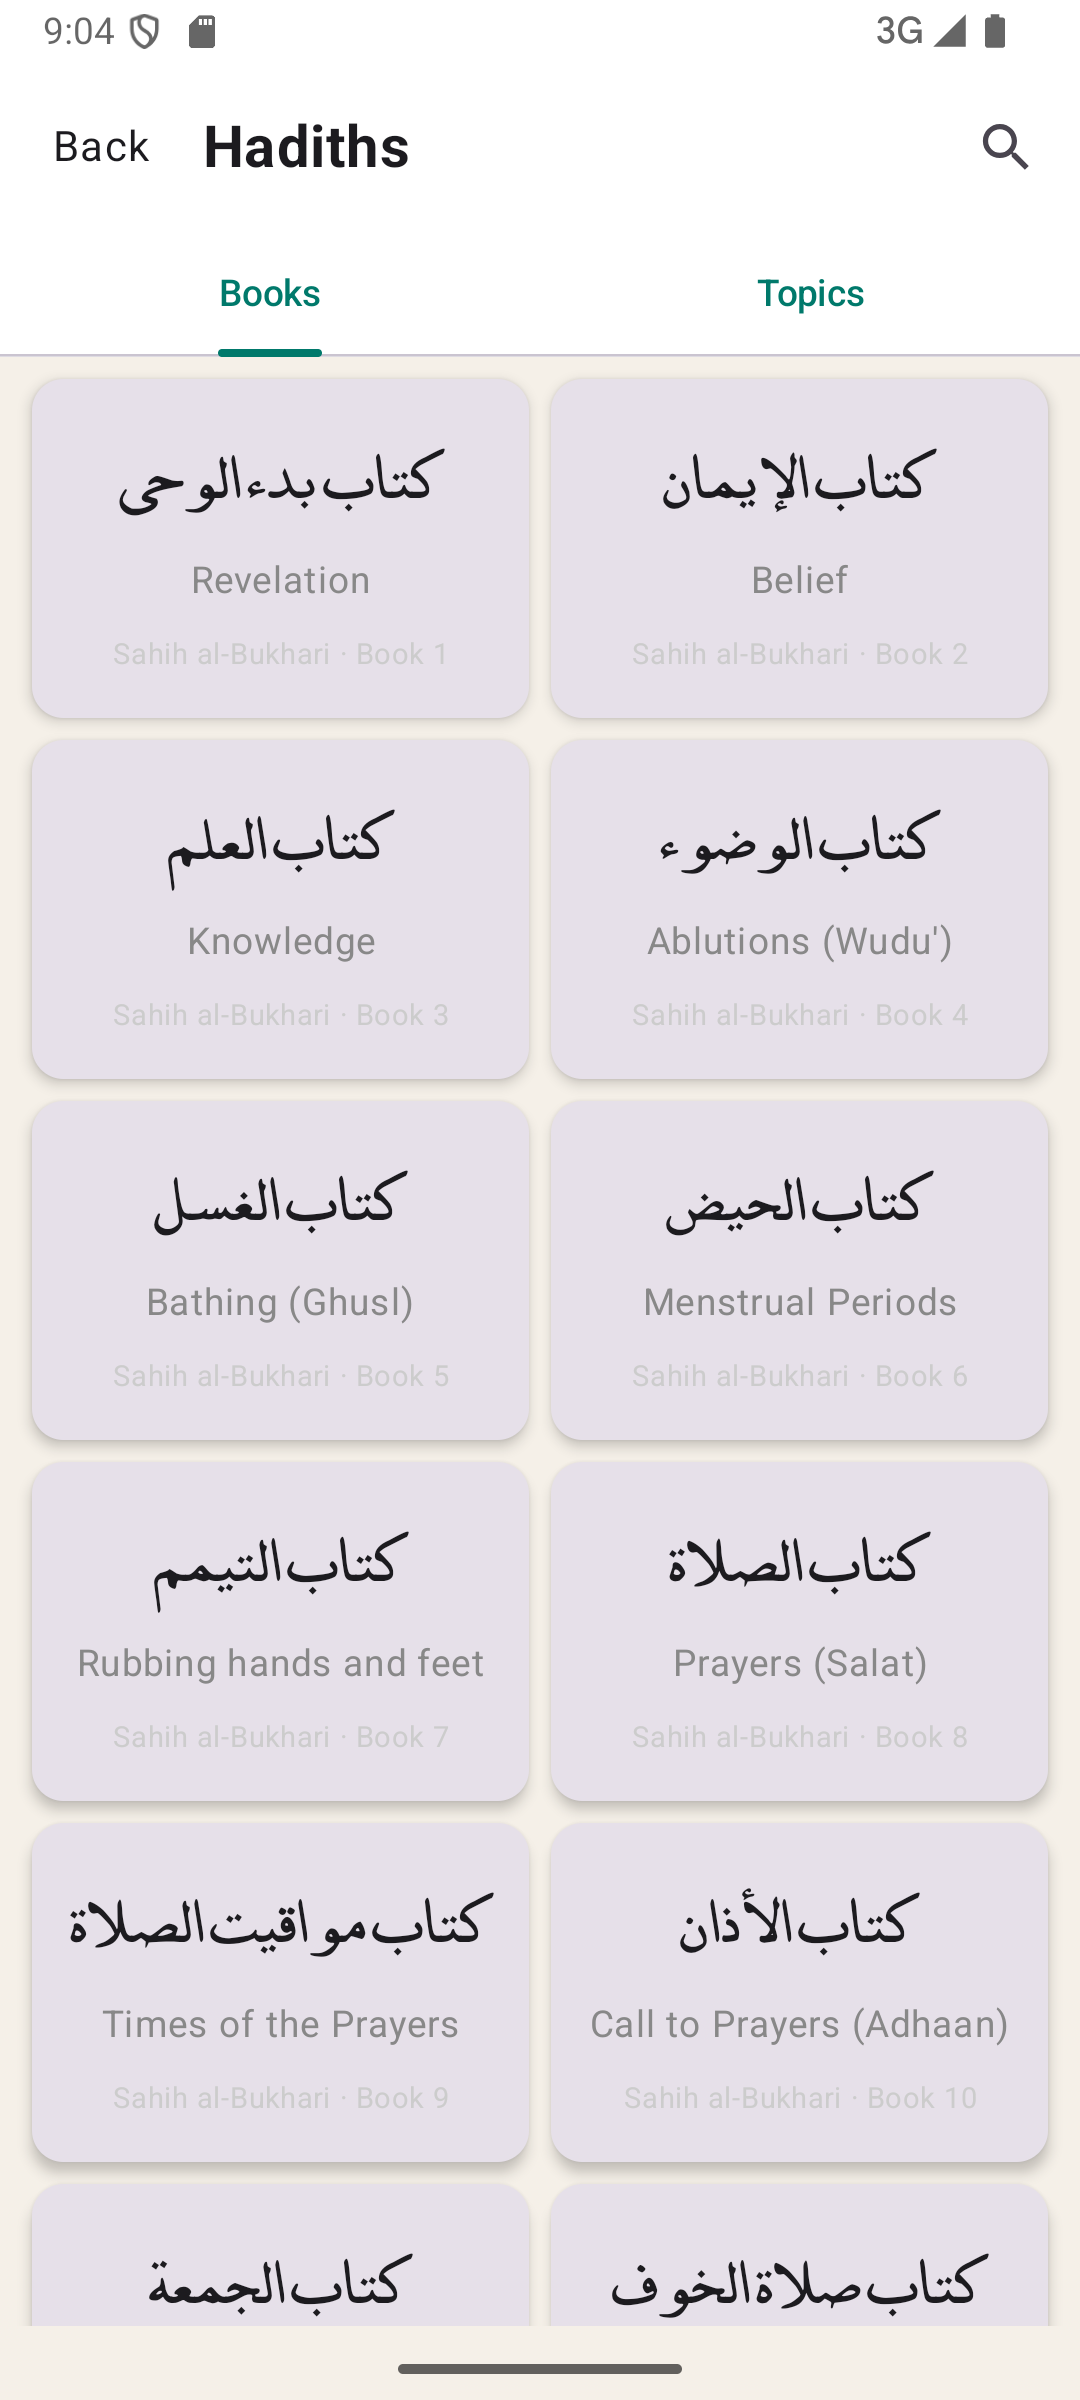
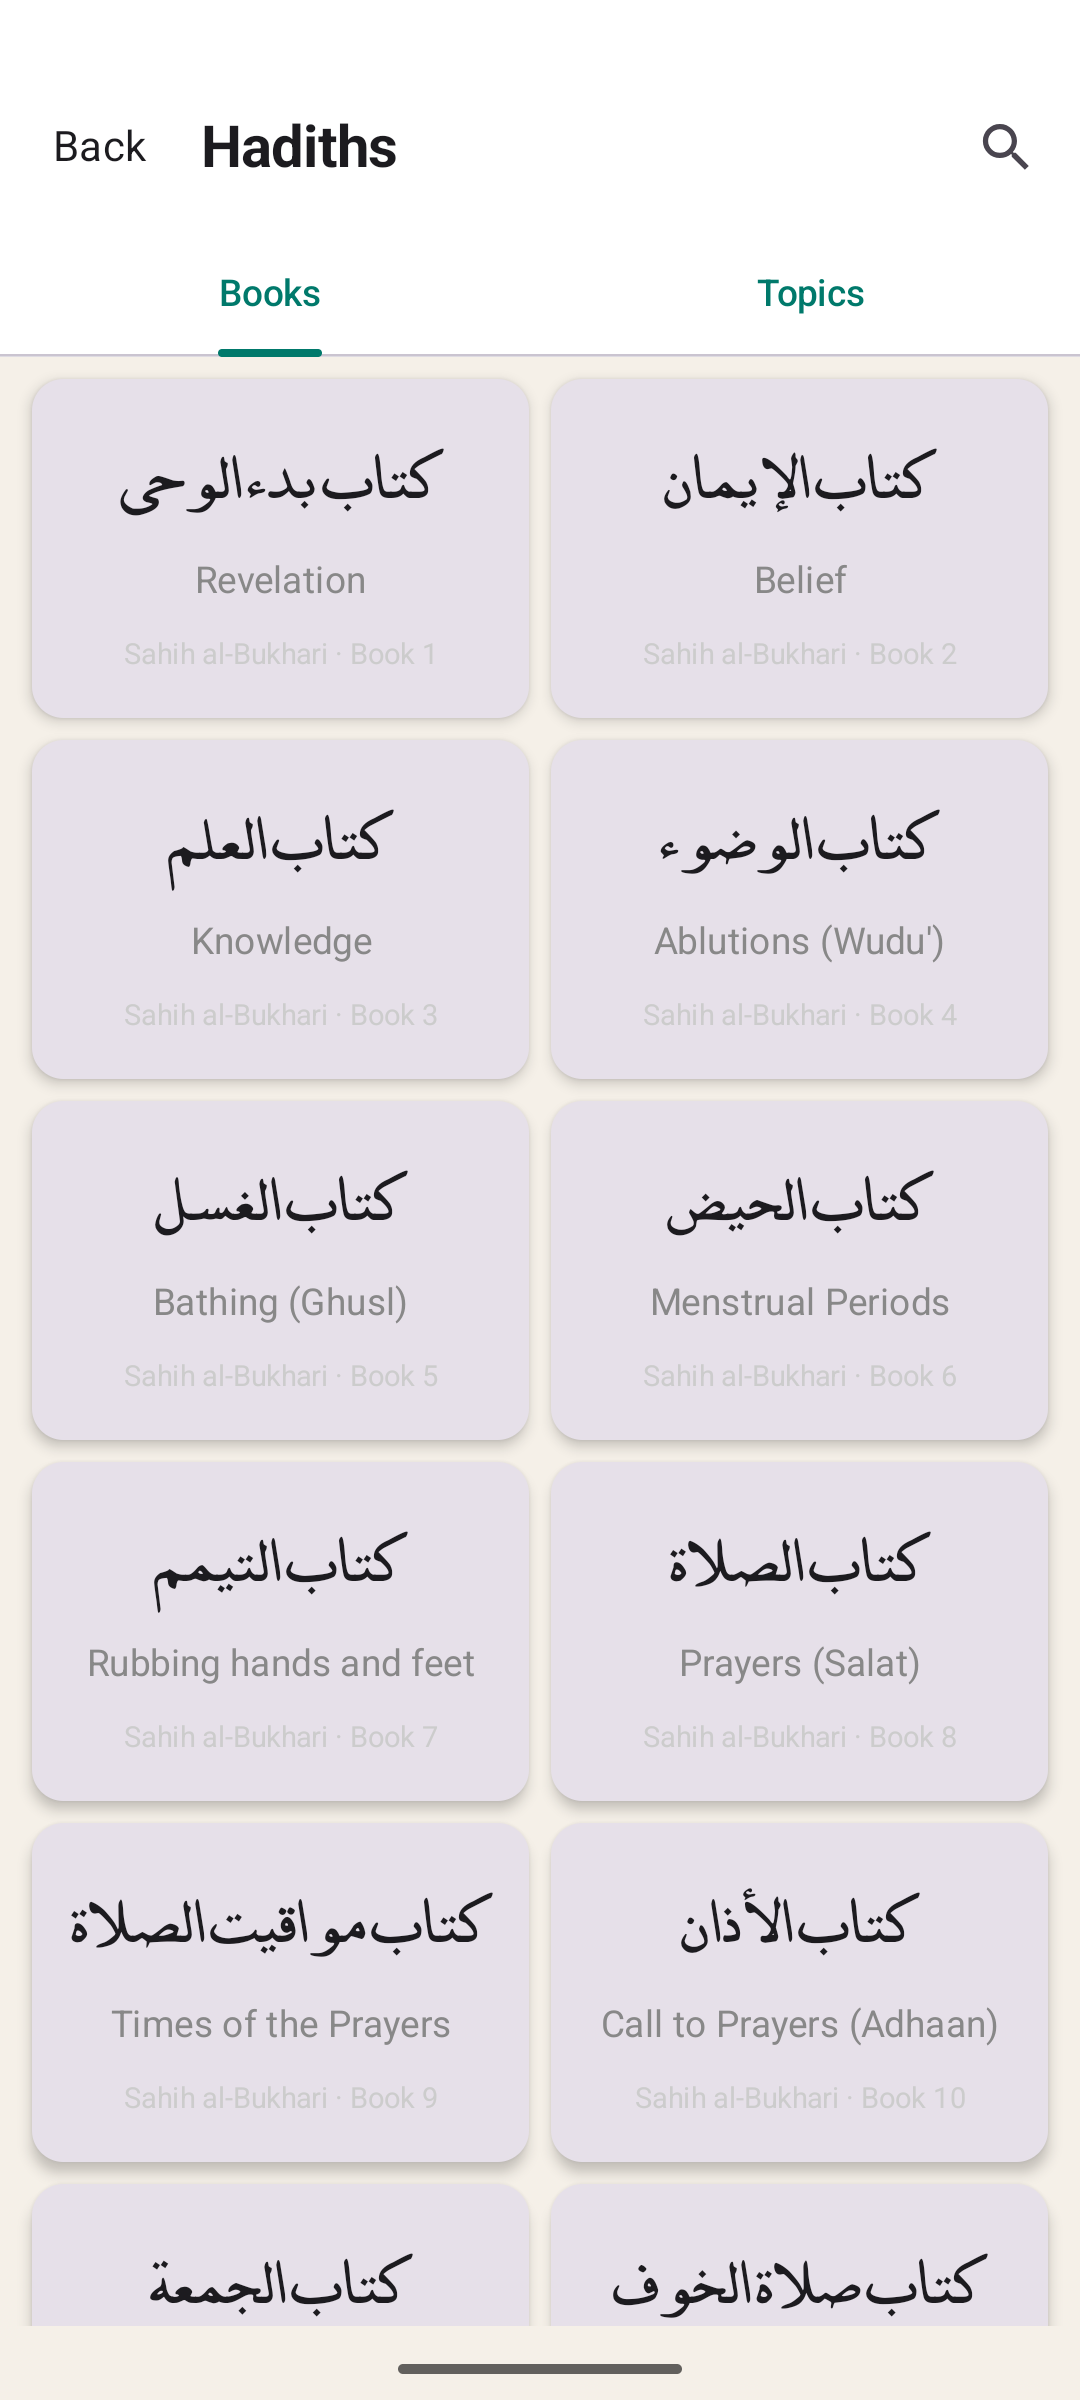
docs: update README with design engineering, sync high-res screenshots and complete route coverage (#106)

diff --git a/README.md b/README.md
@@ -1,4 +1,4 @@
-# 🕌 Rafiq - Islamic Lifestyle App for Android & iOS (Kotlin Multiplatform)
+# 🕋 Rafiq - Islamic Lifestyle App for Android & iOS (Kotlin Multiplatform)
 
 <p align="center">
   <a href="https://github.com/suryamudti/rafiq-android/actions/workflows/pr-check.yml"><img src="https://github.com/suryamudti/rafiq-android/actions/workflows/pr-check.yml/badge.svg" alt="PR Check"/></a>
@@ -12,7 +12,7 @@
 </p>
 
 <p align="center">
-<b>Rafiq</b> demonstrates modern cross-platform mobile development with <b>Kotlin Multiplatform (KMP)</b>, Compose Multiplatform, Jetpack Compose (Material3), Koin, Coroutines, Flow, Room KMP, and Ktor based on <b>Clean Architecture</b> and <b>MVVM</b> multi-module guidelines.
+<b>Rafiq</b> demonstrates modern cross-platform mobile development with <b>Kotlin Multiplatform (KMP)</b>, Compose Multiplatform, Jetpack Compose (Material3), Koin, Coroutines, Flow, Room KMP, and Ktor based on <b>Clean Architecture</b> and <b>MVVM</b> multi-module guidelines, elevated by <b>Emil Kowalski's Design Engineering philosophy</b> and responsive spring micro-interactions.
 </p>
 
 ---
@@ -37,9 +37,9 @@ Go to the [Releases](https://github.com/suryamudti/rafiq-android/releases) secti
 | :---: | :---: | :---: | :---: |
 | <img src="figure/mosques.png" width="220"/> | <img src="figure/hadith.png" width="220"/> | <img src="figure/prophets.png" width="220"/> | <img src="figure/calendar.png" width="220"/> |
 
-| Prayer Guidance | Sunnah Guidance | Architecture & Info |
-| :---: | :---: | :---: |
-| <img src="figure/prayerguidance.png" width="220"/> | <img src="figure/sunnahguidance.png" width="220"/> | <img src="figure/appinfo.png" width="220"/> |
+| Prayer Log & Tracker | Prayer Guidance | Sunnah Guidance | Architecture & Info |
+| :---: | :---: | :---: | :---: |
+| <img src="figure/prayerlog.png" width="220"/> | <img src="figure/prayerguidance.png" width="220"/> | <img src="figure/sunnahguidance.png" width="220"/> | <img src="figure/appinfo.png" width="220"/> |
 
 ---
 
@@ -47,22 +47,22 @@ Go to the [Releases](https://github.com/suryamudti/rafiq-android/releases) secti
 
 | Feature | Description |
 |---|---|
-| **🕌 Prayer Times** | Real-time prayer calculation via Aladhan API with date navigation and countdown timer. |
+| **🕌 Prayer Times** | Real-time prayer calculation via Aladhan API with date navigation, countdown timer, and interactive prayer status cards. |
 | **📖 Quran & Tafsir** | 114 Surahs with Uthmani Arabic text, Indonesian/English translations, per-ayah tafsir, sajdah markers, memorization mode, and global ayah search across the full corpus. |
 | **🔊 Recitations** | Audio streaming of 15 reciters via Media3 ExoPlayer with background playback. |
 | **🧭 Qibla Compass** | 16-point direction name, live heading/bearing readout, turn left/right offset indicator (proximity within 5°), Kaaba info card, and a Google Maps button. |
-| **✨ 99 Names of Allah** | Complete list with Arabic typography, transliterations, meanings, and search functionality. |
-| **📅 Islamic Calendar** | Tabular Hijri dates, monthly grid with event/fasting dots, day sheet, upcoming observances (57 events), and sunnah fasting recommendations. |
+| **✨ Asmaul Husna (99 Names of Allah)** | Complete list with Arabic typography, transliterations, meanings, audio, search functionality, and grid/list view toggle. |
+| **📅 Islamic Calendar (`IslamicCalendar`)** | Tabular Hijri dates, monthly grid with event/fasting dots, day sheet, upcoming observances (57 events), and sunnah fasting recommendations. Available in native Android and Compose Multiplatform. |
 | **📜 Prophet Stories** | Biographies of 25 Prophets with facts, key events, lessons, and verse references; Arabic/Latin search, favorites filter, share, adjustable story font size, and prev/next navigation. |
-| **📚 Hadith Library** | Full Sahih Bukhari and Sahih Muslim corpus (Arabic + Indonesian/English translations) with books, per-book hadith lists, detail view, and global hadith search with highlighted results. |
-| **💰 Zakat Calculator** | Nisab threshold logic with instant results computed locally while gold/silver prices refresh in the background from the Metals.live API (in-memory cache). |
-| **📿 Tasbih Counter & History** | Digital zikr counter with haptic feedback, customizable targets, and daily worship history log. |
+| **📚 Hadith Library** | Full canonical corpus (Sahih Bukhari, Sahih Muslim, 40 Hadith Nawawi, Sunan Abi Dawud, etc.) with book filtering, thematic topic explorer, Hadith of the Day, and reading modal with adjustable typography. |
+| **💰 Zakat Calculator (`ZakatCalculator`)** | Nisab threshold logic with instant results computed locally while gold/silver prices refresh in the background from the Metals.live API (in-memory cache). |
+| **📿 Tasbih Counter & History (`TasbihHistory`)** | Digital zikr counter with responsive spring haptics, tactile compression, customizable targets, preset zikr selections, and daily worship history log. |
 | **🗺 Nearby Mosques** | Location-aware MapLibre view (no Play Services) with nearby mosque discovery via a reliable Overpass POST API with mirror failover. |
 | **📖 Prayer Guidance** | Step-by-step guidance for obligatory prayers (Subuh, Dzuhur, Ashar, Maghrib, Isya) with authentic hadith/verse dalil, Arabic recitation, translation, and movement illustrations. |
 | **🤲 Sunnah Guidance** | Comprehensive guide for recommended prayers (Tahajjud, Dhuha, Rawatib, Witr, Eid, etc.) with procedures, intentions, and virtues. |
-| **🔖 Bookmarked Verses** | Bookmark favorite verses saved locally in Room database. |
-| **📊 Prayer Tracker & Log** | Daily prayer log screen with toggle switches to track daily worship. |
-| **🧠 Hifz Memorization** | Memorization tracking tools for memorizing verses and chapters. |
+| **📊 Prayer Tracker & Log (`PrayerLog`)** | Daily prayer tracker with intuitive completion toggles and statistics to build consistent daily worship habits. |
+| **🔖 Bookmarked Verses** | Bookmark favorite verses saved locally in Room database for quick offline access. |
+| **🧠 Hifz Memorization** | Memorization tracking tools for memorizing verses and chapters with hide/reveal assistance. |
 | **ℹ App & Architecture Info** | Shared multiplatform system overview, KMP layer information, and release details. |
 | **📚 Sources & Authenticity** | Full attribution and authenticity details for Quranic text, translations, hadith collections, and prayer time calculations. |
 | **🔔 Notifications** | Background prayer alarm notifications scheduled via WorkManager. |
@@ -81,11 +81,12 @@ Go to the [Releases](https://github.com/suryamudti/rafiq-android/releases) secti
 - **[Navigation3](https://developer.android.com/guide/navigation)**: Type-safe Compose navigation using Kotlin `@Serializable` data tokens.
 - **MVVM Architecture + Repository Pattern**: Separation of concerns between UI, Domain, and Data layers.
 
-### UI & Styling
-- **[Compose Multiplatform](https://www.jetbrains.com/lp/compose-multiplatform/)** (1.7.3): Declarative multiplatform UI framework for Android and iOS.
-- **[Jetpack Compose](https://developer.android.com/jetpack/compose)**: Modern declarative UI toolkit for Android.
-- **[Material Design 3](https://m3.material.io/)**: Modern design system, dynamic color schemes, and Islamic color palette.
-- **Custom Typography**: Arabic font support via `FontFamily(Font(R.font.me_quran))`.
+### UI & Styling (Design Engineering)
+- **[Compose Multiplatform](https://www.jetbrains.com/lp/compose-multiplatform/)** (1.7.3): Declarative multiplatform UI framework for Android and iOS (`:composeApp`).
+- **[Jetpack Compose](https://developer.android.com/jetpack/compose)**: Modern declarative UI toolkit for Android (`:app`).
+- **[Material Design 3](https://m3.material.io/)**: Modern design system, dynamic color schemes, and Islamic emerald & gold palette.
+- **Emil Kowalski Design Principles**: Tactile interaction physics via `Modifier.rafiqPressable()` with spring dynamics (`dampingRatio = 0.75f`, `stiffness = 400f`), Apple cubic bezier easing (`AppleEaseOut`), continuous curvature geometry (squircle pills & cards), and specular highlight borders (`RafiqSpecularHighlightBorder`).
+- **Custom Typography**: Arabic font support via `FontFamily(Font(R.font.me_quran))` and negative title letter tracking for refined optical balance.
 
 ### Data & Local Storage
 - **[Room Database KMP](https://developer.android.com/training/data-storage/room)** (2.8.4): SQLite object mapping library with Bundled SQLite Driver.
@@ -159,7 +160,7 @@ graph TD
     end
 
     subgraph Core ["Core Layer (:core - KMP)"]
-        Core_Utils["Result&lt;T&gt;, AppError, DispatcherProvider, DatabaseCopier"]
+        Core_Utils["Result pattern, AppError, DispatcherProvider, DatabaseCopier"]
     end
 
     UI --> Core
@@ -168,7 +169,7 @@ graph TD
 ```
 
 ### Architecture Highlights
-- **Kotlin Multiplatform Ready**: Pure KMP in `:core`, `:domain`, and `:composeApp`, supporting Android and iOS targets (`iosArm64`, `iosSimulatorArm64`).
+- **Kotlin Multiplatform Ready**: Pure KMP in `:core`, `:domain`, and `:composeApp`, supporting Android and iOS targets (`iosArm64`, `iosSimulatorArm64`). Shared multiplatform UI covers Quran, Hadith, Calendar, Tasbih, Asmaul Husna, Prophets, Zakat, and Guidance.
 - **Offline-First**: Bundled SQLite database assets (`quran-uthmani.db`, translation databases, and `hadith.db`) ensure complete offline Quran and Hadith reading without requiring an initial network load.
 - **Single Source of Truth**: Repositories manage caching between remote APIs and local databases.
 - **Unidirectional Data Flow (UDF)**: ViewModels expose immutable `StateFlow<UiState>` to Compose UI elements while handling events asynchronously via Coroutines.
